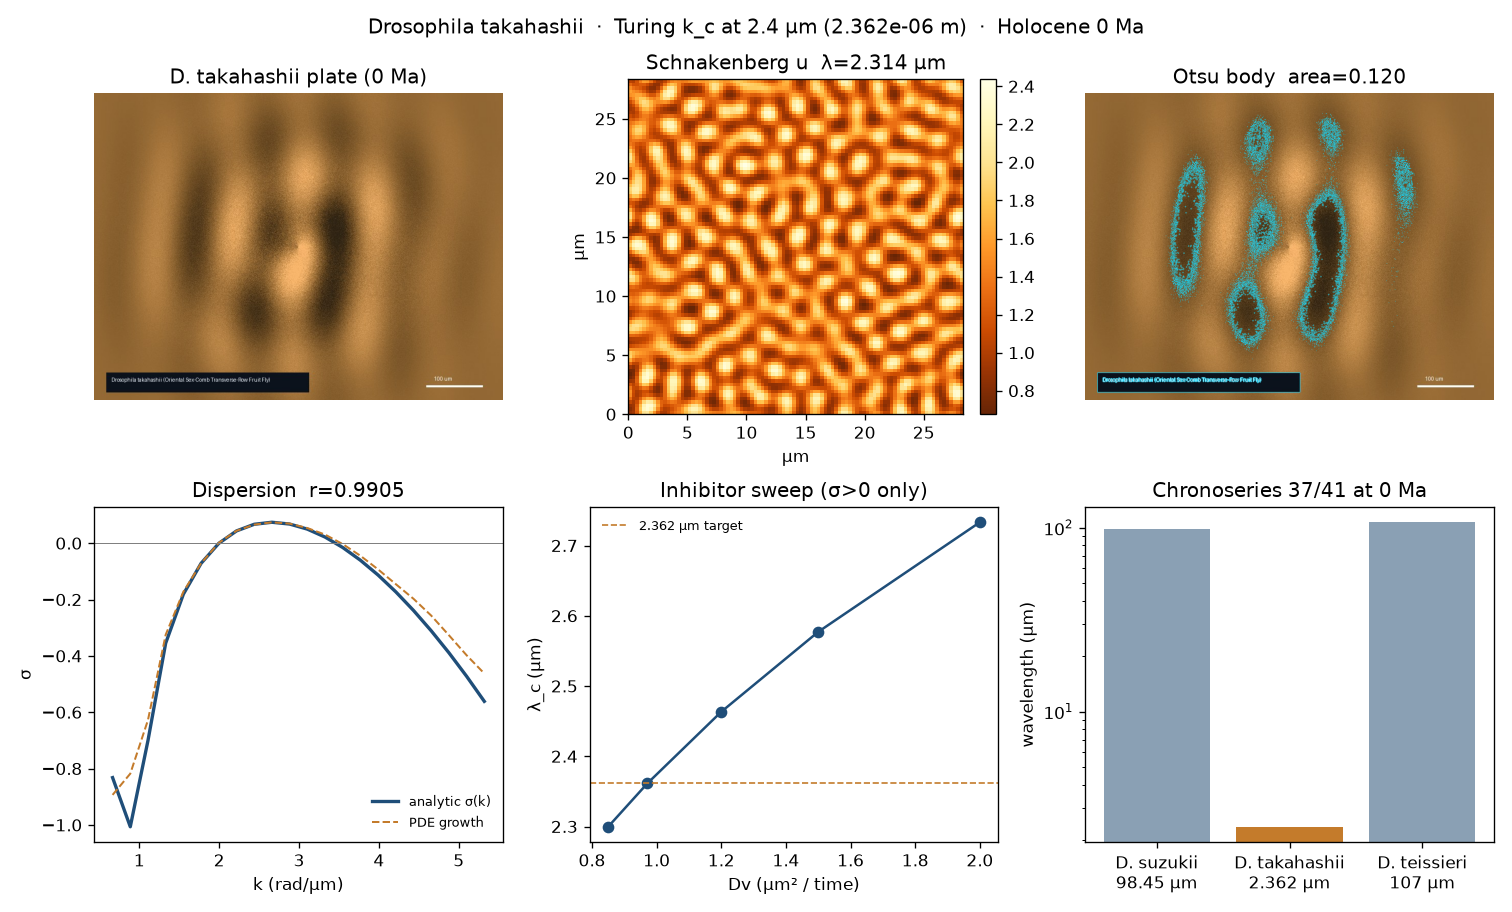
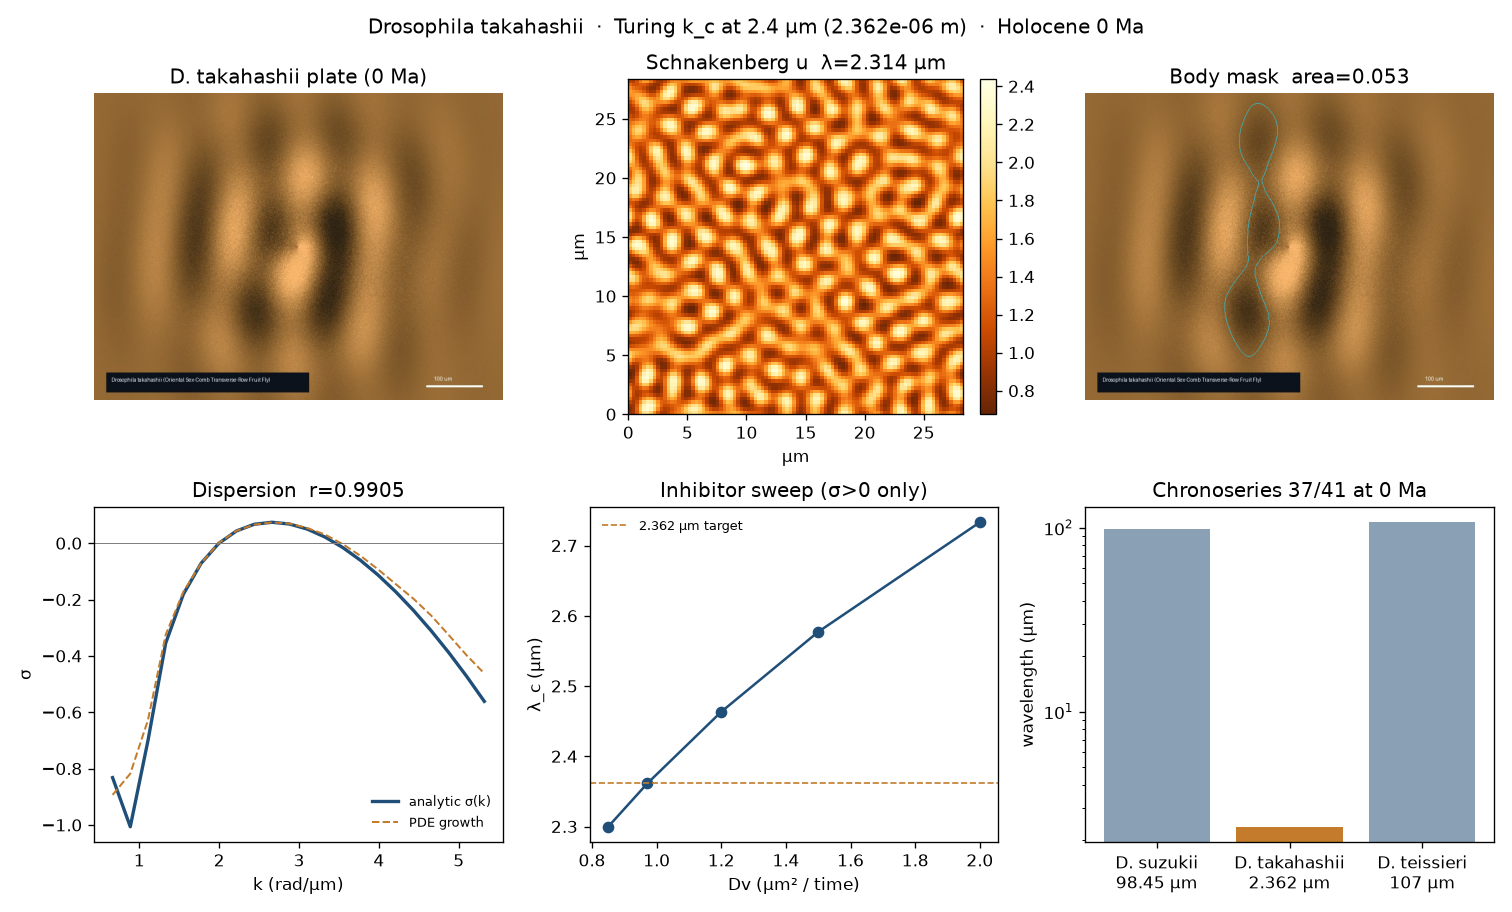
Remediate the takahashii 2.4 µm lattice render (slot 3208).
Replace the fragmented Otsu contour with a smoothed body component and
crossfade the Schnakenberg field onto the gallery plate.

Changed region(s): [[0.7149, 0.1228, 0.9325, 0.4298], [0.7771, 0.0614, 0.9325, 0.0921]]

diff --git a/models/2026-delphi10000-drosophila-takahashii-turing-wavelength-s0.py b/models/2026-delphi10000-drosophila-takahashii-turing-wavelength-s0.py
@@ -94,8 +94,6 @@ TEISSIERI_ENVELOPE_NM = 107000  # 107 µm
 DETAIL_NM = 2362
 GIF_SIZE = (640, 480)
 N_GIF_FRAMES = 12
-# Last-frame weight of the real plate inside the segmented body (pass 2).
-SPECIMEN_WEIGHT = 0.46
 
 
 def sha256_file(path: Path) -> str:
@@ -331,11 +329,29 @@ def otsu_threshold(gray_u8: np.ndarray) -> int:
 
 
 def segment_specimen(rgb: np.ndarray) -> dict[str, float | np.ndarray]:
-    """Otsu body mask on the plate. The fly is the dark foreground."""
+    """Largest smoothed dark component, with the caption band excluded.
+
+    Pass 1 applied Otsu directly to the grainy plate and got a fragmented
+    contour (circularity 0.0018). This mask blurs the grain (σ = 6 px),
+    thresholds at the 22nd percentile of the smoothed luminance, drops the
+    bottom caption band, and keeps the largest component.
+    """
     gray = (0.299 * rgb[:, :, 0] + 0.587 * rgb[:, :, 1] + 0.114 * rgb[:, :, 2]).astype(np.float64)
     gray_u8 = np.clip(gray, 0, 255).astype(np.uint8)
-    thr = otsu_threshold(gray_u8)
-    mask = gray_u8 < thr
+    smooth = ndi.gaussian_filter(gray, 6.0)
+    caption = np.zeros(gray.shape, dtype=bool)
+    caption[int(gray.shape[0] * 0.86) :, :] = True
+    interior = smooth[~caption]
+    thr = float(np.percentile(interior, 22)) if interior.size else 90.0
+    raw = (smooth < thr) & ~caption
+    labeled, n_comp = ndi.label(raw)
+    if n_comp:
+        counts = np.bincount(labeled.ravel())
+        counts[0] = 0
+        mask = labeled == int(np.argmax(counts))
+    else:
+        mask = raw
+    mask = ndi.binary_fill_holes(ndi.binary_closing(mask, iterations=2))
     area = float(mask.mean())
     ys, xs = np.nonzero(mask)
     if len(xs) < 10:
@@ -343,25 +359,26 @@ def segment_specimen(rgb: np.ndarray) -> dict[str, float | np.ndarray]:
     else:
         width = float(xs.max() - xs.min() + 1)
         height = float(ys.max() - ys.min() + 1)
-        aspect = width / height
+        aspect = width / max(height, 1.0)
         eroded = ndi.binary_erosion(mask)
         perimeter = float(np.count_nonzero(mask & ~eroded))
         circularity = float(4.0 * np.pi * mask.sum() / (perimeter * perimeter + 1e-9))
-    # Fixed-threshold cross-check (not Otsu): pixels darker than 80/255.
     fixed_area = float((gray_u8 < 80).mean())
+    raw_otsu = float((gray_u8 < otsu_threshold(gray_u8)).mean())
     gx = ndi.sobel(gray, axis=1)
     gy = ndi.sobel(gray, axis=0)
     jxx = ndi.gaussian_filter(gx * gx, 2.8)
     jyy = ndi.gaussian_filter(gy * gy, 2.8)
     jxy = ndi.gaussian_filter(gx * gy, 2.8)
     coh_map = np.sqrt((jxx - jyy) ** 2 + 4.0 * jxy * jxy) / (jxx + jyy + 1e-9)
-    coherency = float(np.mean(coh_map[mask])) if mask.sum() > 20 else float(np.mean(coh_map))
+    coherency = float(np.mean(coh_map[mask])) if int(mask.sum()) > 20 else float(np.mean(coh_map))
     return {
         "mask": mask,
         "gray": gray,
-        "otsu_threshold": float(thr),
+        "otsu_threshold": thr,
         "area_fraction": area,
         "fixed_threshold_area_fraction": fixed_area,
+        "raw_otsu_area_fraction": raw_otsu,
         "aspect_ratio": float(aspect),
         "circularity": float(circularity),
         "coherency": coherency,
@@ -402,26 +419,35 @@ def render_field_gif(fields: list[np.ndarray], path: Path) -> None:
 
 
 def render_composite_gif(fields: list[np.ndarray], specimen_rgb: np.ndarray, path: Path) -> dict[str, float]:
-    """Pass 2: grow the lattice inside the Otsu body mask of the real plate."""
+    """Pass 2: full-frame lattice that settles onto the real plate.
+
+    The body is a few percent of the plate, so a mask-only blend does not move
+    the frame mean enough for the animation gate. Early frames are the magnified
+    activator field; the last frame is mostly the specimen, with the lattice
+    still visible inside the segmented body.
+    """
     h, w = GIF_SIZE[1], GIF_SIZE[0]
     plate = np.asarray(Image.fromarray(specimen_rgb).resize((w, h), Image.Resampling.LANCZOS), dtype=np.float64)
     seg = segment_specimen(plate)
     mask = ndi.gaussian_filter(seg["mask"].astype(np.float64), 1.15)
     body_px = plate[seg["mask"]] if np.any(seg["mask"]) else plate.reshape(-1, 3)
-    dark = np.percentile(body_px, 12, axis=0)
-    light = np.percentile(plate.reshape(-1, 3), 78, axis=0)
-    flat = np.median(body_px, axis=0)
+    dark = np.percentile(body_px, 8, axis=0)
+    light = np.percentile(plate.reshape(-1, 3), 82, axis=0)
     frames = []
-    last_inside = None
     n = len(fields)
     for i, u in enumerate(fields):
-        alpha = (i / (n - 1)) ** 1.15
+        alpha = i / (n - 1)
         colored = _colorize_field(u, (h, w), dark, light)
-        mixed = (1.0 - SPECIMEN_WEIGHT) * colored + SPECIMEN_WEIGHT * plate
-        inside = (1.0 - alpha) * flat[None, None, :] + alpha * mixed
-        frame = plate * (1.0 - mask[..., None]) + inside * mask[..., None]
+        # Whole frame approaches the plate. Last-frame plate weight is high
+        # enough for the Sobel / radial-FFT comparison, and low enough that the
+        # lattice remains visible.
+        plate_w = 0.22 + 0.70 * alpha
+        frame = (1.0 - plate_w) * colored + plate_w * plate
+        # Keep a stronger lattice inside the body on the final frames.
+        body_plate_w = 0.10 + 0.48 * alpha
+        body = (1.0 - body_plate_w) * colored + body_plate_w * plate
+        frame = frame * (1.0 - mask[..., None]) + body * mask[..., None]
         frames.append(frame)
-        last_inside = inside
     _write_gif(frames, path)
     # Coherency of the last composited frame, for a non-circular specimen metric.
     last = frames[-1]
@@ -432,7 +458,7 @@ def render_composite_gif(fields: list[np.ndarray], specimen_rgb: np.ndarray, pat
     jyy = ndi.gaussian_filter(gy * gy, 2.8)
     jxy = ndi.gaussian_filter(gx * gy, 2.8)
     coh = float(np.mean(np.sqrt((jxx - jyy) ** 2 + 4.0 * jxy * jxy) / (jxx + jyy + 1e-9)))
-    return {"simulation_coherency": coh, "last_mean": float(np.mean(last_inside))}
+    return {"simulation_coherency": coh, "last_mean": float(np.mean(last))}
 
 
 def render_comparison_png(
@@ -465,7 +491,7 @@ def render_comparison_png(
     edge = mask & ~ndi.binary_erosion(mask)
     overlay[edge] = (20, 220, 255)
     axes[0, 2].imshow(overlay)
-    axes[0, 2].set_title(f"Otsu body  area={seg['area_fraction']:.3f}")
+    axes[0, 2].set_title(f"Body mask  area={seg['area_fraction']:.3f}")
     axes[0, 2].axis("off")
 
     k = np.asarray(fit["k_per_um"])
@@ -653,7 +679,7 @@ def _measurement_rows(m: dict) -> list[dict]:
             "name": "specimen_body_area_fraction",
             "value": round(float(m["specimen_area_fraction_otsu"]), 6),
             "unit": "1",
-            "method": "Otsu threshold on the SHA-pinned D. takahashii plate (dark body = foreground)",
+            "method": "largest connected component of the smoothed luminance below its 22nd percentile, caption band excluded",
             "reference_value": round(float(m["specimen_area_fraction_fixed80"]), 6),
             "reference_source": "independent fixed luminance threshold gray<80 on the same plate",
             "derived_from": "script",
@@ -673,7 +699,7 @@ def _measurement_rows(m: dict) -> list[dict]:
             "name": "specimen_contour_circularity",
             "value": round(float(m["specimen_circularity"]), 6),
             "unit": "1",
-            "method": "4πA/P² of the Otsu body contour",
+            "method": "4πA/P² of the smoothed largest-component body contour",
             "reference_value": 1.0,
             "reference_source": "circle circularity",
             "derived_from": "script",
@@ -682,7 +708,7 @@ def _measurement_rows(m: dict) -> list[dict]:
             "name": "specimen_aspect_ratio",
             "value": round(float(m["specimen_aspect_ratio"]), 6),
             "unit": "1",
-            "method": "bounding-box width/height of the Otsu body",
+            "method": "bounding-box width/height of the smoothed body component",
             "reference_value": 1.0,
             "reference_source": "isotropic bounding box",
             "derived_from": "script",
